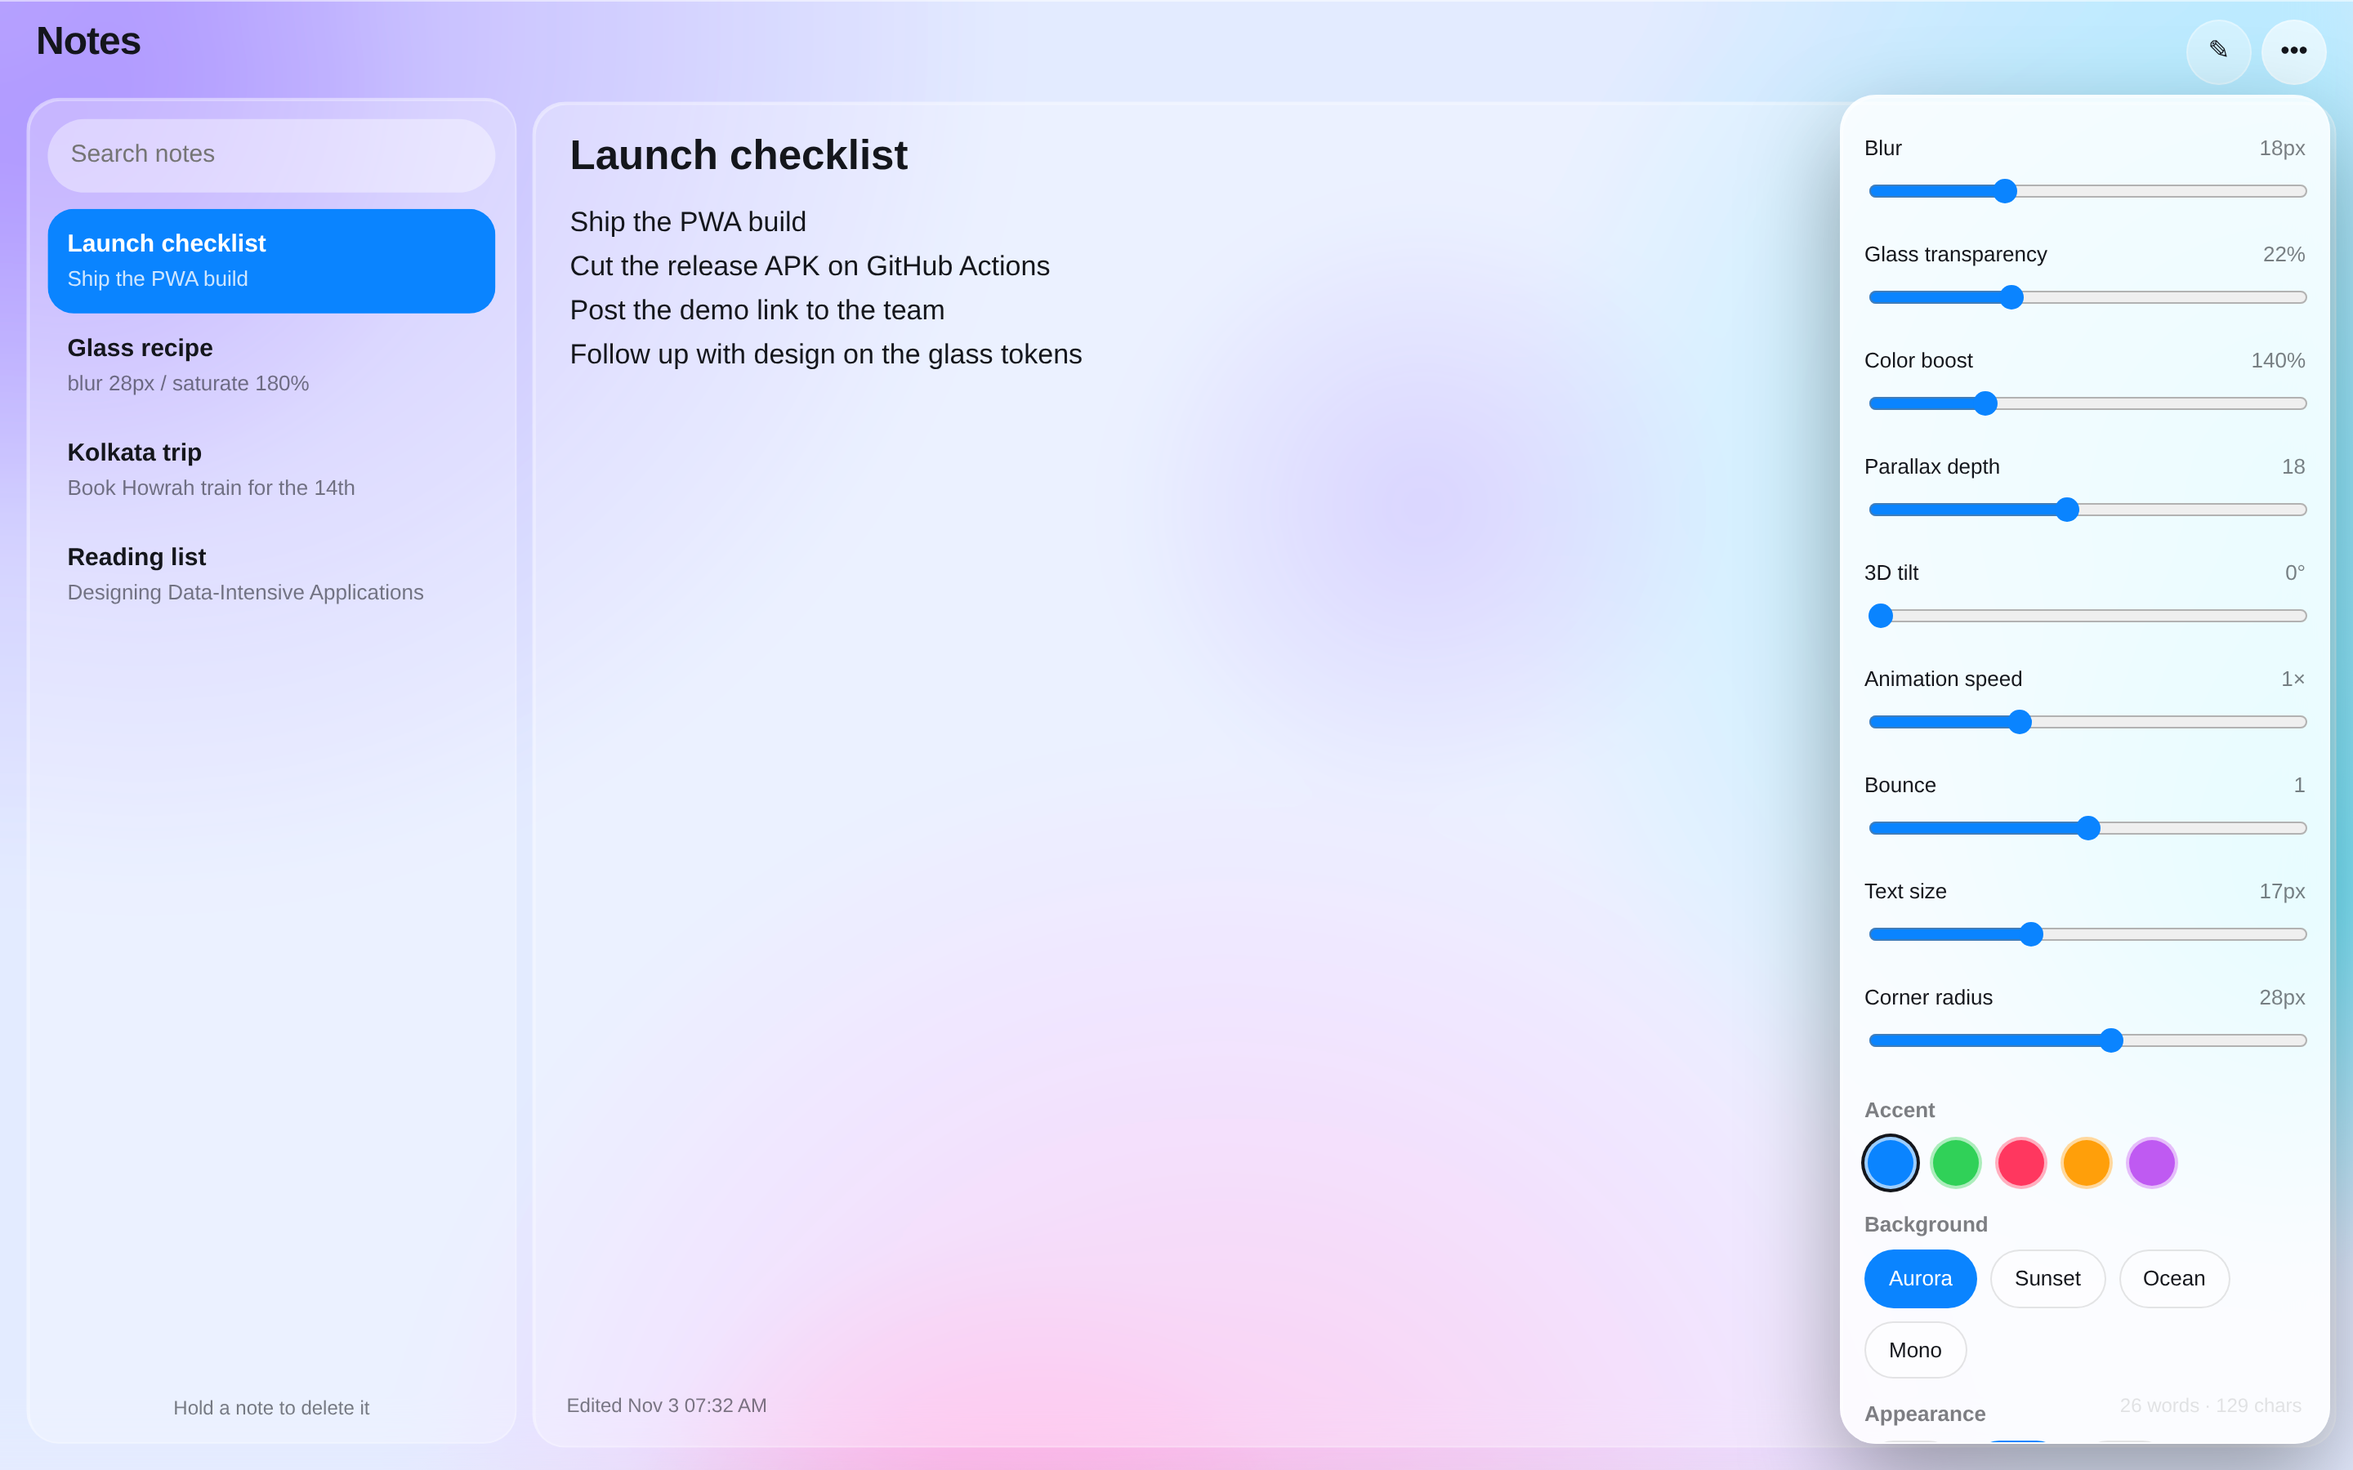
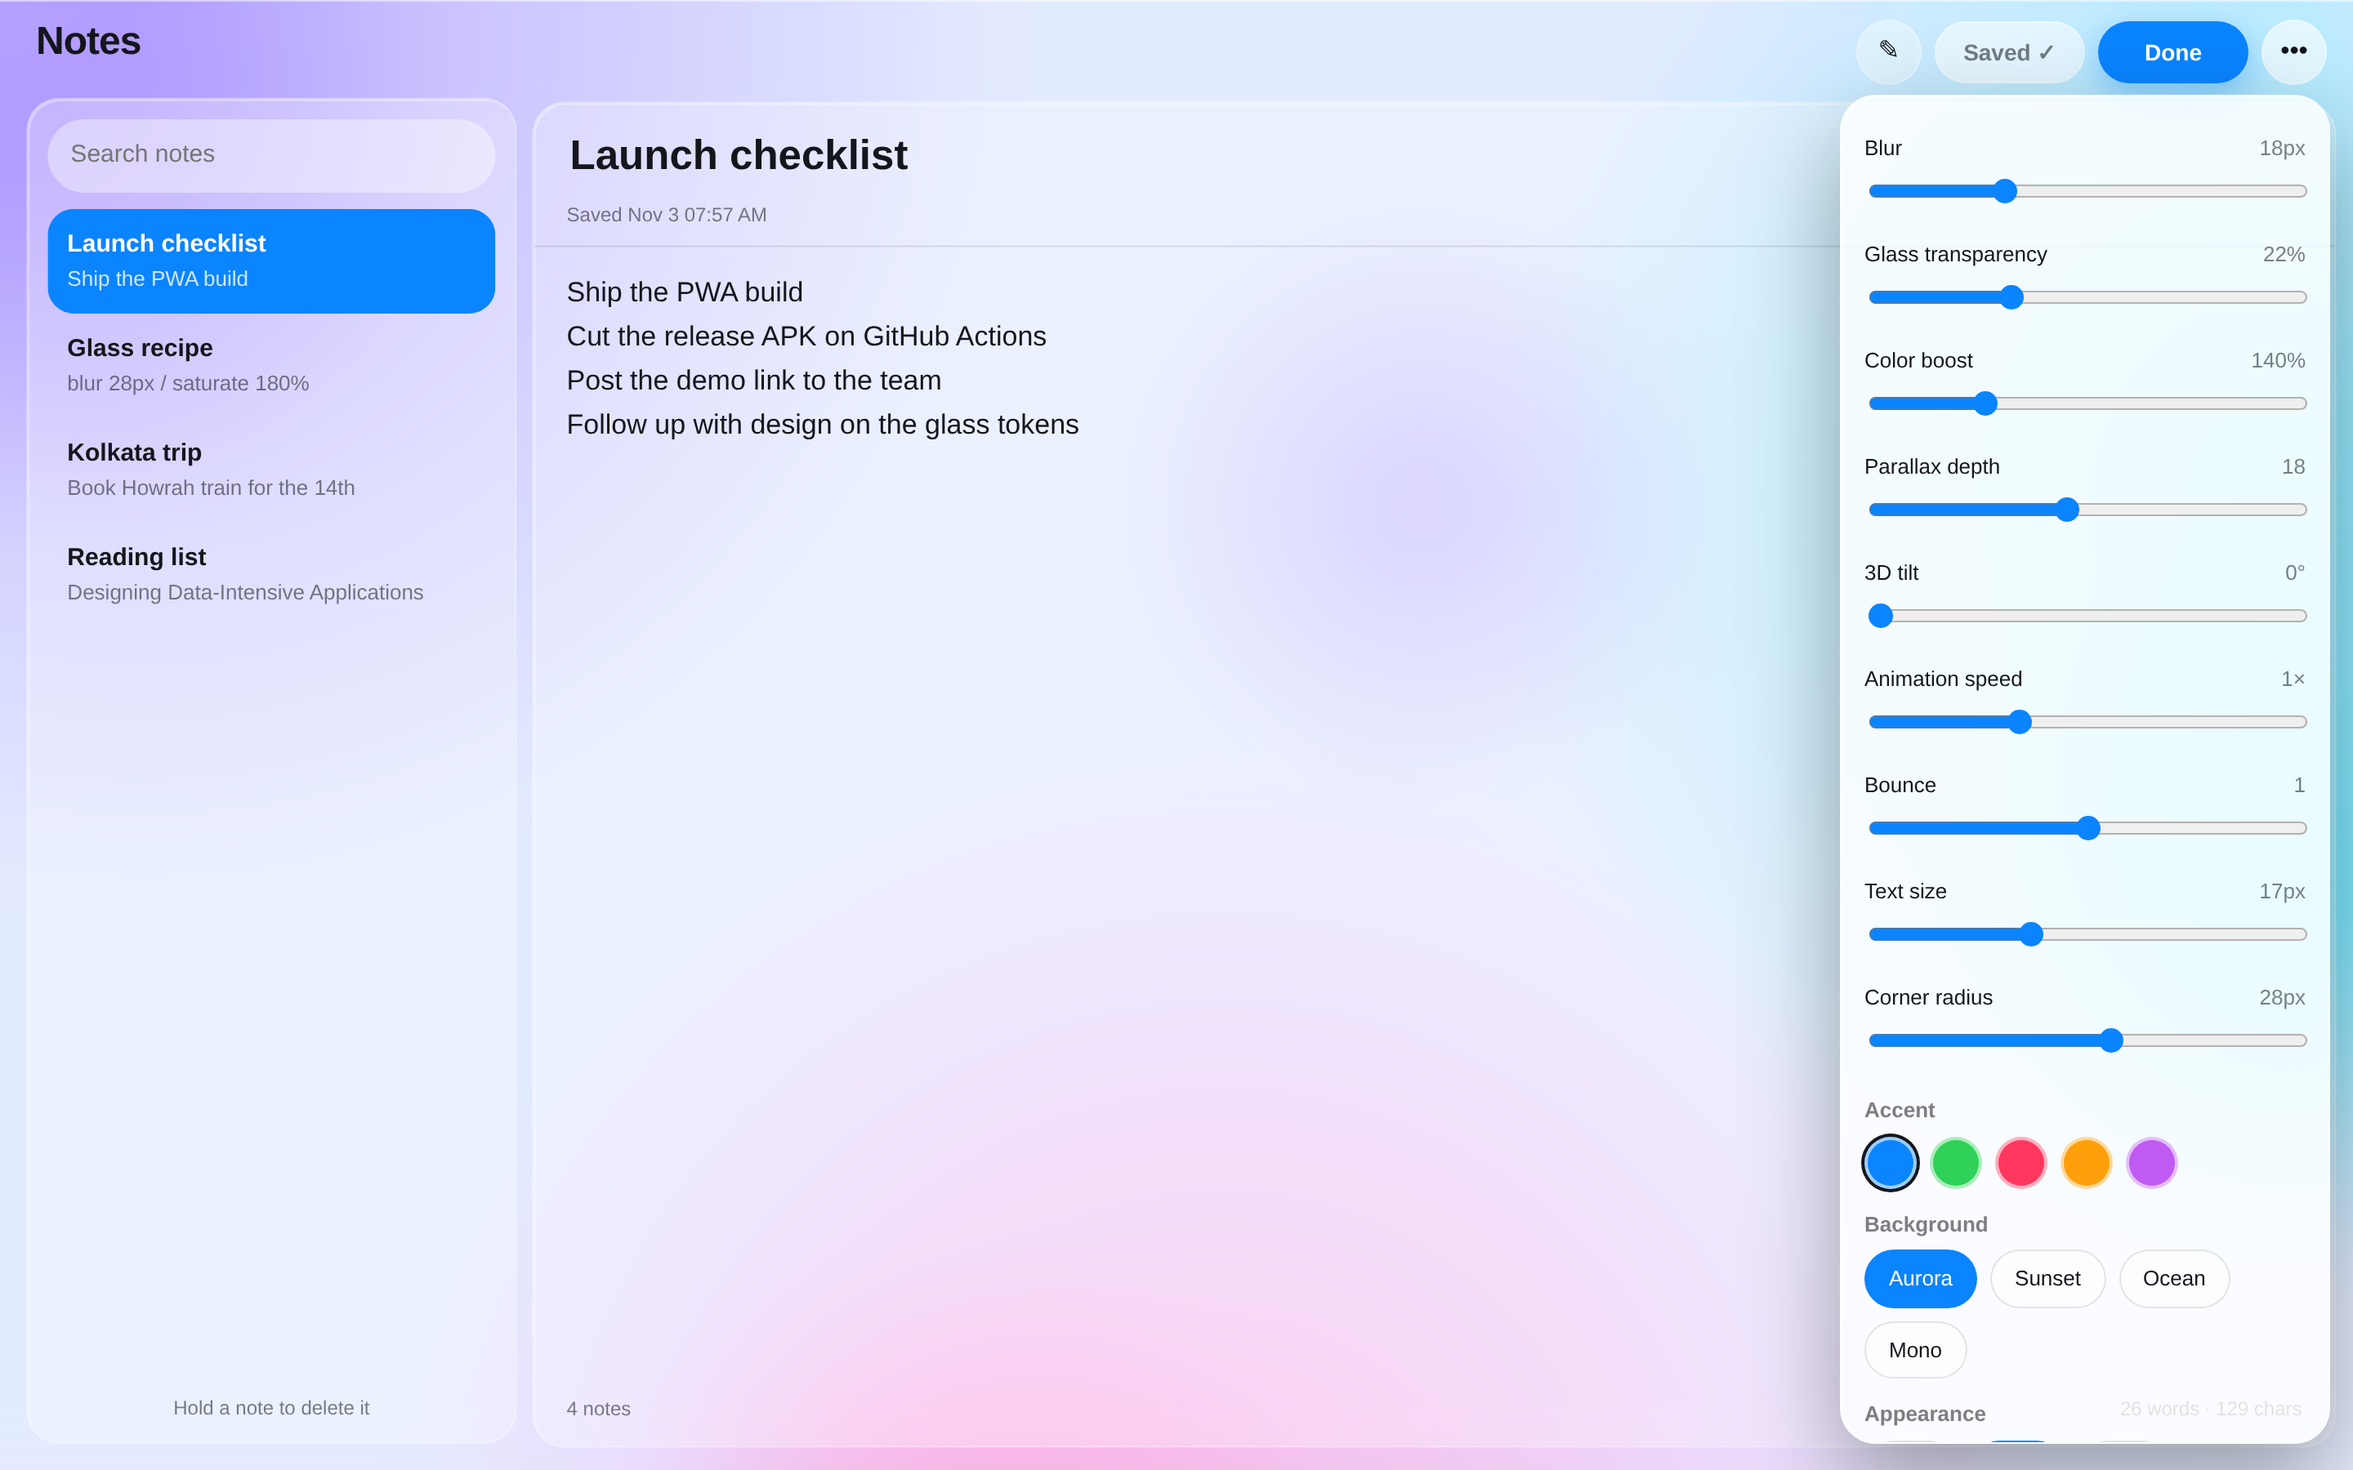
Notes app flow: title on top, Save, Done — 1.3.0
- title field sits at the top of the editor with the note body under a hairline
- Save button writes the note, flips to "Saved ✓", shows the save time and a toast
- Done saves and closes the app window, back to the launcher icon
- typing marks the note "Unsaved changes"; Save is always tappable, never a dead tap
- drafts are committed on note switch, new note, field blur, background and close
- Ctrl/Cmd+S saves, Ctrl/Cmd+Enter finishes
- footer shows the note count instead of repeating the timestamp
- 9 new automated checks for this flow (58 browser checks total, 11 shell checks)
- versionCode 4 / versionName 1.3.0

Changed region(s): [[0.25, 0.1244, 0.4688, 0.3111], [0.8125, 0.0, 0.9688, 0.0622], [0.25, 0.9333, 0.2812, 0.9644]]

diff --git a/app.js b/app.js
@@ -143,6 +143,11 @@
 
   /* ---------------- saving (debounced, flushed on exit) ---------------- */
   let saveTimer;
+  let dirty = false;
+
+  /** True while the open note has changes that are not on disk yet. */
+  const isDirty = () => dirty;
+
   function saveNotesNow() {
     clearTimeout(saveTimer);
     saveTimer = null;
@@ -155,9 +160,12 @@
     saveTimer = setTimeout(saveNotesNow, 250);
   }
   const saveSettings = () => store.set(K_SET, JSON.stringify(S));
-  window.addEventListener('pagehide', saveNotesNow);
+  window.addEventListener('pagehide', () => { if (dirty) commit(); else saveNotesNow(); });
   document.addEventListener('visibilitychange', () => {
-    if (document.visibilityState === 'hidden') saveNotesNow();
+    if (document.visibilityState === 'hidden') {
+      if (dirty) commit();
+      else saveNotesNow();
+    }
   });
 
   /* ---------------- toast ---------------- */
@@ -469,12 +477,53 @@
     li.lastChild.textContent = previewOf(n);
   }
 
+  function countNotes() {
+    const meta = $('#meta');
+    if (!meta) return;
+    meta.textContent = notes.length + (notes.length === 1 ? ' note' : ' notes');
+  }
+
+  function paintSaveState() {
+    const st = $('#state');
+    const btn = $('#bSave');
+    if (st) {
+      if (dirty) {
+        st.textContent = 'Unsaved changes';
+        st.classList.add('dirty');
+      } else {
+        const n = current();
+        st.textContent = n ? 'Saved ' + fmt(n.u) : 'Not saved yet';
+        st.classList.remove('dirty');
+      }
+    }
+    if (btn) {
+      btn.textContent = dirty ? 'Save' : 'Saved \u2713';
+      btn.classList.toggle('is-clean', !dirty);
+    }
+  }
+
+  /** Write the open note to storage and mark it clean. */
+  function commit(opts) {
+    const n = current();
+    if (!n) return;
+    if (dirty) {
+      n.u = Date.now();
+      saveNotesNow();
+      dirty = false;
+    } else {
+      saveNotesNow();          // flush anything still debounced
+    }
+    paintSaveState();
+    if (opts && opts.rerender) render();
+  }
+
   function show() {
     const n = current();
     $('#ti').value = n ? n.t : '';
     $('#tx').value = n ? n.b : '';
-    $('#meta').textContent = n ? 'Edited ' + fmt(n.u) : '';
+    countNotes();
     stats();
+    paintSaveState();
   }
 
   function stats() {
@@ -525,7 +574,7 @@
     if (e.target.closest('.dbtn')) { delNote(+li.dataset.id); return; }
     if (suppressed) { suppressed = false; return; }
     if (li.classList.contains('armed')) { disarm(); return; }
-    saveNotesNow();
+    commit();
     cur = +li.dataset.id;
     render();
     show();
@@ -547,23 +596,23 @@
     n.t = $('#ti').value;
     n.b = $('#tx').value;
     n.u = Date.now();
-    $('#meta').textContent = 'Edited ' + fmt(n.u);
-    saveNotesSoon();
+    dirty = true;
+    paintSaveState();
     refreshRow(n.id);   // in place: no re-sort, no scroll jump, no lost focus
     stats();
+    saveNotesSoon();    // safety net only; Save/Done is the real action
   }
   $('#ti').addEventListener('input', edit);
   $('#tx').addEventListener('input', edit);
   ['#ti', '#tx'].forEach((sel) => {
     $(sel).addEventListener('blur', () => {
-      saveNotesNow();
-      render();          // now it is safe to re-sort
+      commit({ rerender: true });   // safe now: focus has left the editor
     });
   });
   $('#q').addEventListener('input', (e) => { filter = e.target.value; render(); });
 
   $('#bNew').addEventListener('click', () => {
-    saveNotesNow();
+    commit({ rerender: true });
     const n = { id: uid(), t: '', b: '', u: Date.now() };
     notes.push(n);
     cur = n.id;
@@ -573,6 +622,34 @@
     show();
     $('#ti').focus();
   });
+
+  /* ---------------- Save / Done ---------------- */
+  function flashSaved() {
+    const btn = $('#bSave');
+    if (!btn) return;
+    btn.classList.remove('saved');
+    // restart the pulse animation
+    void btn.offsetWidth;
+    btn.classList.add('saved');
+  }
+
+  const saveBtn = $('#bSave');
+  if (saveBtn) {
+    saveBtn.addEventListener('click', () => {
+      commit({ rerender: true });
+      flashSaved();
+      toast(current() ? 'Note saved' : 'Nothing to save');
+    });
+  }
+
+  const doneBtn = $('#bDone');
+  if (doneBtn) {
+    doneBtn.addEventListener('click', () => {
+      commit({ rerender: true });
+      toast('Note saved');
+      closeWin();
+    });
+  }
 
   /* ---------------- sound ---------------- */
   let AC;
@@ -756,7 +833,9 @@
   /* ---------------- keyboard ---------------- */
   document.addEventListener('keydown', (e) => {
     const mod = e.metaKey || e.ctrlKey;
-    if (mod && (e.key === 'n' || e.key === 'N')) { e.preventDefault(); $('#bNew').click(); }
+    if (mod && (e.key === 's' || e.key === 'S')) { e.preventDefault(); if (saveBtn) saveBtn.click(); }
+    else if (mod && e.key === 'Enter') { e.preventDefault(); if (doneBtn) doneBtn.click(); }
+    else if (mod && (e.key === 'n' || e.key === 'N')) { e.preventDefault(); $('#bNew').click(); }
     else if (mod && (e.key === 'f' || e.key === 'F')) { e.preventDefault(); $('#q').focus(); }
     else if (e.key === 'Escape') {
       if ($('#menu').classList.contains('open')) toggleMenu(false);

diff --git a/styles.css b/styles.css
@@ -65,8 +65,26 @@ body{
 }
 
 .bar{display:flex;align-items:center;gap:12px;padding:calc(12px + env(safe-area-inset-top,0px)) 16px 12px;position:relative;z-index:2}
-.title{flex:1;font-weight:700;font-size:24px;letter-spacing:-.02em}
-.tools{display:flex;gap:6px}
+.title{flex:1;min-width:0;font-weight:700;font-size:24px;letter-spacing:-.02em;white-space:nowrap;overflow:hidden;text-overflow:ellipsis}
+.tools{display:flex;gap:8px;align-items:center}
+
+/* Save / Done — the explicit actions of a notes app */
+.act{
+  border:1px solid rgba(255,255,255,.5);background:rgba(var(--gl),.55);color:var(--ink);
+  min-height:38px;padding:0 16px;border-radius:999px;font:inherit;font-size:14px;font-weight:600;
+  cursor:pointer;transition:transform .2s,background .2s,opacity .2s;white-space:nowrap;
+}
+.act:hover{background:rgba(var(--gl),.8)}
+.act:active{transform:scale(.95)}
+.act.primary{
+  background:var(--accent);color:#fff;border-color:transparent;
+  box-shadow:0 6px 18px rgba(10,132,255,.35);
+}
+.act.primary:hover{filter:brightness(1.07)}
+.act.is-clean{border-color:rgba(255,255,255,.35);color:var(--ink2);min-width:92px}
+.act{min-width:92px}
+.act.saved{animation:savedPulse .5s cubic-bezier(.3,1.6,.5,1)}
+@keyframes savedPulse{0%{transform:scale(1)}45%{transform:scale(1.12)}100%{transform:scale(1)}}
 .ib{
   border:1px solid rgba(255,255,255,.3);background:rgba(var(--gl),.35);color:var(--ink);
   width:40px;height:40px;border-radius:50%;font-size:16px;cursor:pointer;line-height:1;
@@ -113,13 +131,16 @@ body{
 .hint{color:var(--ink2);font-size:12px;text-align:center;padding-top:8px}
 
 /* ---------- editor ---------- */
-.ed{flex:1;display:flex;flex-direction:column;padding:16px 20px;min-width:0}
+.ed{flex:1;display:flex;flex-direction:column;padding:0;min-width:0}
+.ed-head{padding:16px 20px 10px;border-bottom:1px solid var(--line);flex:0 0 auto}
+.state{font-size:12px;color:var(--ink2);margin-top:2px}
+.state.dirty{color:var(--accent);font-weight:600}
 #ti{
   border:0;outline:0;background:none;color:var(--ink);font-family:inherit;font-weight:700;
   font-size:calc(var(--fs)*1.5);line-height:1.2;margin-bottom:8px;width:100%;
 }
-#tx{flex:1;border:0;outline:0;resize:none;background:none;color:var(--ink);font:inherit;line-height:1.6;caret-color:var(--accent)}
-.meta{color:var(--ink2);font-size:12px;margin-top:6px;display:flex;justify-content:space-between;gap:12px}
+#tx{flex:1;border:0;outline:0;resize:none;background:none;color:var(--ink);font:inherit;line-height:1.6;caret-color:var(--accent);padding:14px 20px 0}
+.meta{color:var(--ink2);font-size:12px;padding:6px 20px 14px;display:flex;justify-content:space-between;gap:12px;flex:0 0 auto}
 
 /* ---------- settings sheet ---------- */
 .menu{
@@ -170,9 +191,16 @@ body{
   .menu{right:8px;width:calc(100% - 16px)}
   .title{font-size:20px}
   .ib{width:44px;height:44px;font-size:17px}
+  .act{min-height:44px;padding:0 12px;font-size:13px;min-width:76px}
   .chip{min-height:42px;padding:10px 16px;font-size:14px}
   .sw{width:38px;height:38px}
   .row{gap:10px}
+  .bar{gap:8px;padding-left:14px;padding-right:14px}
+  .tools{gap:6px}
+}
+@media (max-width:380px){
+  .act{min-width:68px;padding:0 10px}
+  .ib{width:40px;height:40px}
 }
 @media (prefers-reduced-motion:reduce){
   .orb,.win,#list li{transition:none!important;animation:none!important}

diff --git a/index.html b/index.html
@@ -31,6 +31,8 @@
         <div class="tools">
           <button class="ib" id="bInstall" aria-label="Install app" hidden>⤓</button>
           <button class="ib" id="bNew" aria-label="New note">✎</button>
+          <button class="act" id="bSave" aria-label="Save note">Save</button>
+          <button class="act primary" id="bDone" aria-label="Save and close">Done</button>
           <button class="ib" id="bMore" aria-label="Settings" aria-expanded="false">•••</button>
         </div>
       </header>
@@ -43,9 +45,15 @@
         </aside>
 
         <section class="pane ed" data-z="0.15">
-          <input id="ti" placeholder="Title" aria-label="Title" autocomplete="off">
-          <textarea id="tx" placeholder="Start writing…" aria-label="Note body" spellcheck="true"></textarea>
-          <div class="meta"><span id="meta"></span><span id="stats"></span></div>
+          <div class="ed-head">
+            <input id="ti" placeholder="Title" aria-label="Note title" autocomplete="off">
+            <div class="state" id="state" role="status" aria-live="polite">Not saved yet</div>
+          </div>
+          <textarea id="tx" placeholder="Write your note…" aria-label="Note body" spellcheck="true"></textarea>
+          <div class="meta">
+            <span id="meta"></span>
+            <span id="stats"></span>
+          </div>
         </section>
       </div>
 

diff --git a/sw.js b/sw.js
@@ -1,7 +1,7 @@
 /* Liquid Notes service worker.
    Network-first for the app shell so a deployed fix is picked up immediately,
    cache as the fallback so the app still opens with no connection. */
-const VERSION = 'liquid-notes-v5';
+const VERSION = 'liquid-notes-v6';
 const SHELL = [
   './',
   './index.html',

diff --git a/README.md b/README.md
@@ -14,7 +14,13 @@ Progressive Web App, plus a native Android APK built automatically by GitHub Act
 
 Notes are stored on the device (localStorage) — nothing leaves your phone or browser, there is no account and no server.
 
-- Create, edit, search and delete notes with autosave on every keystroke
+- **Title at the top, note below, then Save or Done** — type a title, write the note, press
+  **Save** (or `Ctrl`/`Cmd` + `S`) and it is written to the device; press **Done** to save and
+  close the app window
+- The button reads **Save** while you have unsaved changes and **Saved ✓** once it is on disk,
+  and the line under the title says exactly when it was saved
+- Create, edit, search and delete notes; drafts are also flushed when you switch notes,
+  leave the field, background the app or close it, so nothing is ever lost
 - Hold a note in the list to reveal its delete button (with haptic feedback)
 - Live word and character count
 - Export all notes as **JSON** or **Markdown**, and import a JSON export back
@@ -24,6 +30,22 @@ Notes are stored on the device (localStorage) — nothing leaves your phone or b
 - Parallax depth and 3D tilt driven by pointer movement or device orientation
 - Animated open/close with a launcher icon, plus an optional sound effect
 - Full offline support through a service worker, and an in-app install button
+
+### New in 1.3.0 — a real notes app flow
+
+The app was autosave-only, which gives you no moment of "this is saved now". It now
+behaves like a notes app:
+
+- A title field sits at the top of the editor with the note underneath, above a hairline.
+- **Save** writes the note and the button switches to **Saved ✓**; the state line under the
+  title shows the exact save time, and a toast confirms it.
+- **Done** saves and closes the app window (back to the launcher icon).
+- Save is never a no-op: it is always tappable and always confirms, so a tap never feels dead.
+- Switching notes, creating a note, leaving the field, backgrounding or closing the app all
+  commit the draft first — the explicit button is for control, not for safety.
+
+Covered by 9 new automated checks (title above body, unsaved marker, Save writes to storage,
+button state, toast, list title, survives reload, Ctrl+S, Done closes).
 
 ### Fixed in 1.2.0 — the repeated crashes
 
@@ -90,6 +112,8 @@ The 1.0.0 build had real defects, found with an automated bug-hunt harness and f
 
 | Keys | Action |
 | --- | --- |
+| `Ctrl`/`Cmd` + `S` | Save the note |
+| `Ctrl`/`Cmd` + `Enter` | Save and Done |
 | `Ctrl`/`Cmd` + `N` | New note |
 | `Ctrl`/`Cmd` + `F` | Focus search |
 | `Esc` | Close the settings panel |
